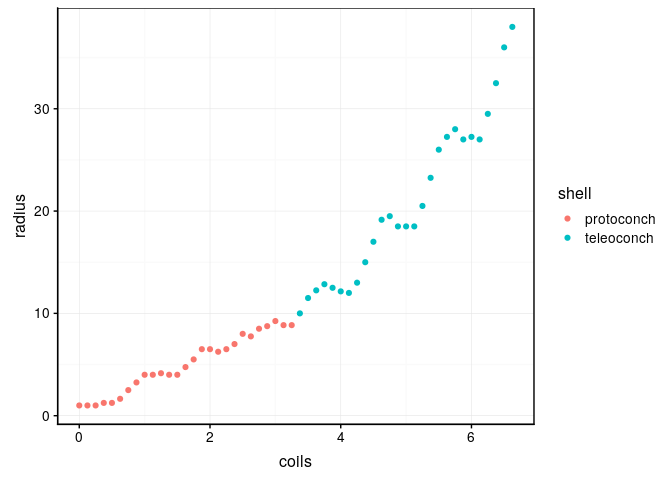
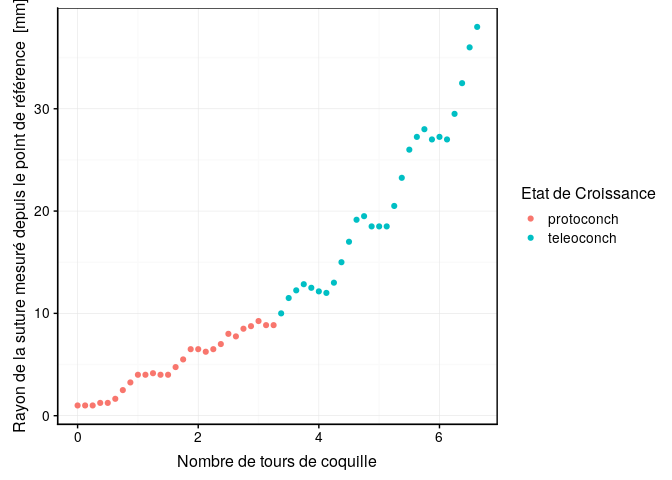
edition readme

diff --git a/README.md b/README.md
@@ -4,17 +4,22 @@ Croissance de la coquille d’escargots géants d’Afrique
 # Introduction
 
 *Achatina achatina* (Linnaeus, 1758) a été étudié dans le cadre d’une
-étude tentant de modéliser la croissance des coquilles. Employez la
-régression linaire afin de modéliser la croissance de la coquille de
-ces animaux.
+étude tentant de modéliser la croissance des coquilles.
 
-![](README_files/figure-gfm/unnamed-chunk-1-1.png)<!-- -->
+![](images/achatina.png)
 
-Ce jeu de données comprends les variables suivantes :
+Le jeu de données `achatina` comprend les variables suivantes :
 
   - coils : nombre de tours de coquille (sans unité)
   - shell : rayon de la suture mesuré depuis le point de référence
     (apex) en mm
+
+Que l’on peut visualiser dans le graphique ci-dessous.
+
+![](README_files/figure-gfm/unnamed-chunk-1-1.png)<!-- -->
+
+Employez la régression linaire afin de modéliser la croissance de la
+coquille de ces animaux.
 
 # Objectif
 
